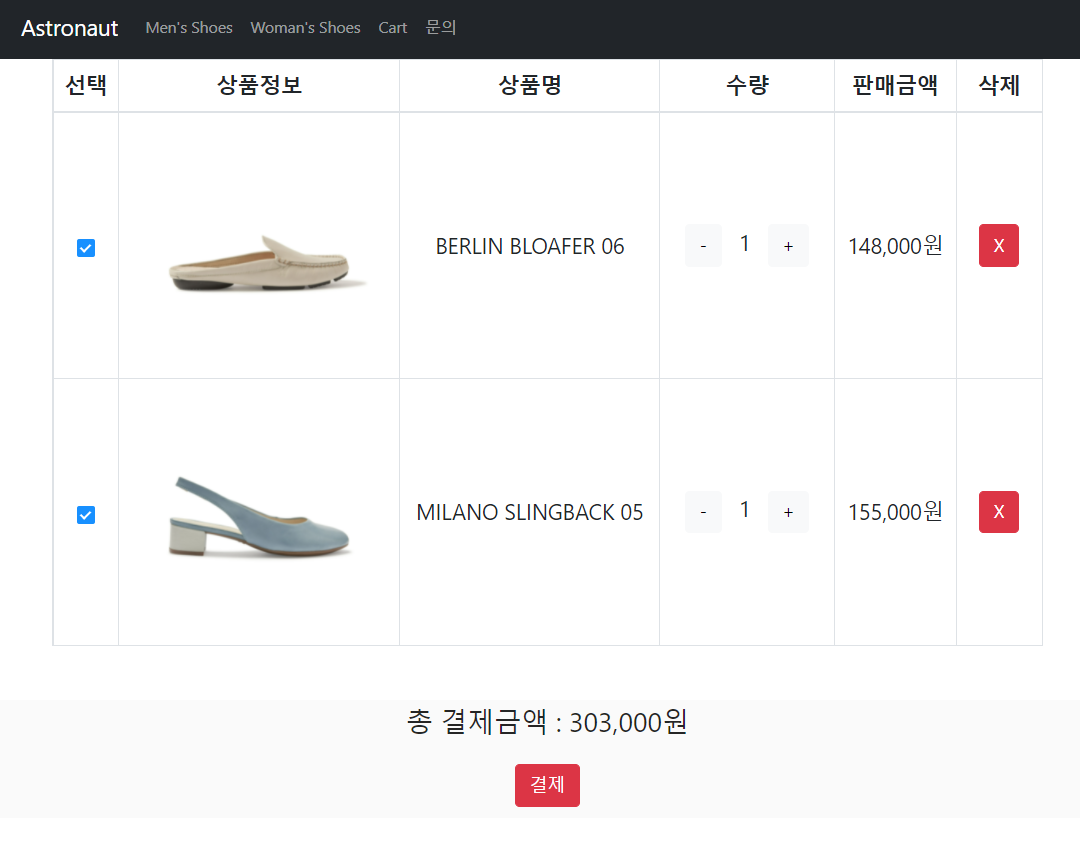
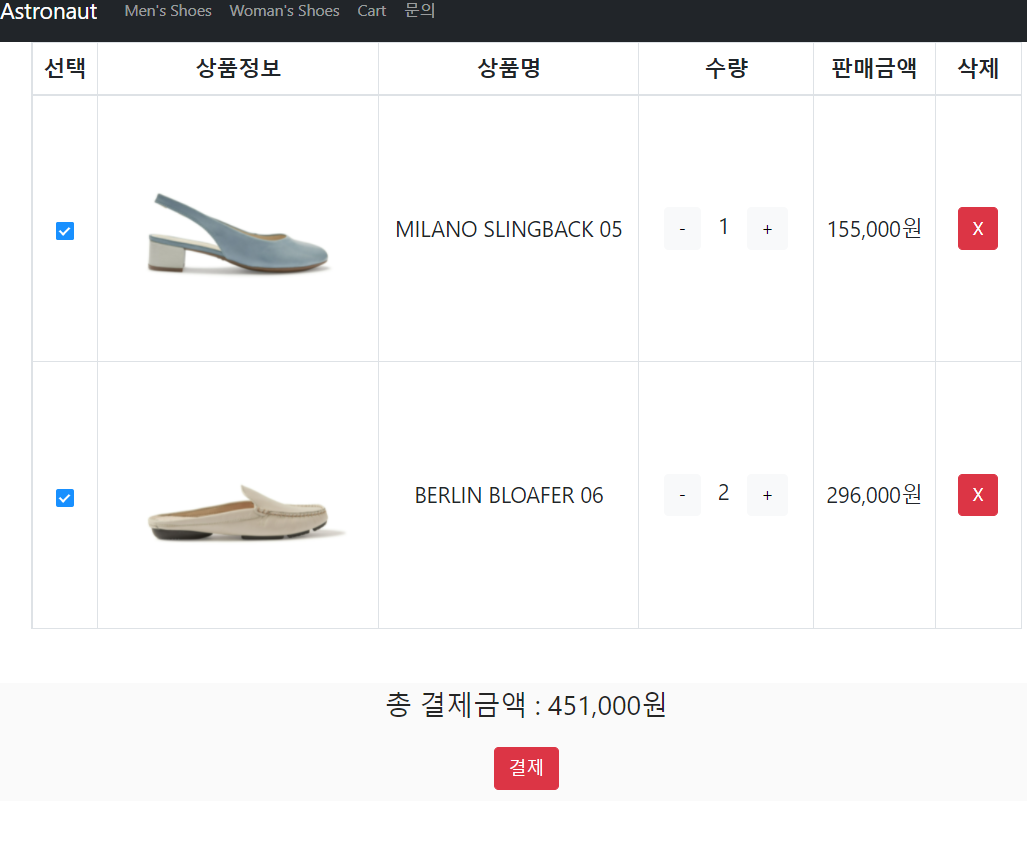
update

diff --git a/README.md b/README.md
@@ -105,7 +105,7 @@
 <div markdown="3">
 <br/>
 
-# 장바구니
+## 장바구니
 
 ### 👉 [전체 code보기](https://github.com/MinsoftK/astronaut-shop/blob/master/shop/src/container/Cart.js)
 
@@ -149,11 +149,11 @@
 <div markdown="4">
 <br/>
 
-# 상품 선택 결제 기능
+## 상품 선택 결제 기능
 
 ### 👉 [전체 code보기](https://github.com/MinsoftK/astronaut-shop/blob/master/shop/src/container/Cart.js)
 
-<center><img src="https://github.com/MinsoftK/astronaut-shop/blob/master/shop/src/img/readme7.png?raw=true" width="800" height="600"/></center>
+<center><img src="https://github.com/MinsoftK/astronaut-shop/blob/master/shop/src/img/readme8.png?raw=true" width="800" height="600"/></center>
 
 - 장바구니에서 상품을 선택하면 상품이 실시간으로 업데이트 된다. 👉 [checkbox 전체 코드 보기](https://github.com/MinsoftK/astronaut-shop/blob/6e469964e4a983b527d0525eae5f622bd2c4e05f/shop/src/container/Cart.js#L30)
 
@@ -199,12 +199,12 @@ const onChange = (e) => {
   </div>
   </details>
 
- <details>
+<details>
 <summary> 4.5. 렌더링 최적화</summary>
 <div markdown="5">
 <br/>
 
-# 렌더링 최적화
+## 렌더링 최적화
 
 ### 👉 [lazy loading code보기](https://github.com/MinsoftK/astronaut-shop/blob/6e469964e4a983b527d0525eae5f622bd2c4e05f/shop/src/App.js#L13)
 
@@ -246,13 +246,13 @@ const onChange = (e) => {
 
 # 5. 주요 트러블슈팅
 
- <details>
+<details>
   <summary> 5.1. json을 통해 Data 받아올 때, CORS 오류</summary>
   <div markdown="1">
 
-<br/>
+    <br/>
 
-# json을 통해 Data 받아올 때, CORS 오류
+## json을 통해 Data 받아올 때, CORS 오류
 
 - 초기 환경에서 DB가 없어서 로컬환경을 이용해 axios 모듈을 통해서 github에 올려진 json파일을 받아오려 했다. 하지만 `Access to XMLHttpRequest at 'https://github.com/MinsoftK/react/blob/main/shop/src/Data/addManShoes.json' from origin 'http://localhost:3000' has been blocked by CORS policy: No 'Access-Control-Allow-Origin' header is present on the requested resource.` 오류가 발생했다. CORS 오류에 대해서 찾아봤는데 왜 CORS 오류가 발생하는지 이해하기 어려웠다.
 
@@ -282,13 +282,14 @@ const fetchData = (i) => {
 
 </div>
 </details>
+
 <details>
   <summary> 5.2. 더보기 버튼 클릭시, 무한 상품 로딩 문제</summary>
   <div markdown="2">
 
 <br/>
 
-# 상품 더보기 버튼 클릭시, 무한 상품 로딩
+## 상품 더보기 버튼 클릭시, 무한 상품 로딩
 
 - 더보기 버튼을 눌렀을 때, 5.1에서처럼 axios모듈을 이용하여 json 데이터를 받아온다. 이때 상품을 불러와도 더보기 버튼이 비활성화되지 않아 무한으로 상품이 추가되는 오류가 있었다. 또한 남자, 여자 카테고리에서 더보기 버튼이 같은 state를 공유하고 있었다. 그래서 남자, 여자 상품 각각의 결과에 대한 버튼 활성화를 관리할 수 있게 state 변수를 2개 만들어줬다.
 
@@ -355,7 +356,7 @@ const fetchData = (i) => {
   <div markdown="3">
 <br/>
 
-# 총 결제금액 표시 문제
+## 총 결제금액 표시 문제
 
 ## 👉 [ 코드 전체 보기](https://github.com/MinsoftK/astronaut-shop/blob/ba961917c6cc688e3da929653dd851c6ff4df634/shop/src/container/Cart.js#L30)
 
@@ -442,7 +443,7 @@ const onChange = (e) => {
 
 <br/>
 
-# 여자 신발 데이터가 바인딩 되야하는데 남자 신발이 바인딩되는 문제
+## 여자 신발 데이터가 바인딩 되야하는데 남자 신발이 바인딩되는 문제
 
 ## 👉 [ 코드 전체 보기](https://github.com/MinsoftK/astronaut-shop/blob/ba961917c6cc688e3da929653dd851c6ff4df634/shop/src/container/ShoesList.js#L20)
 
@@ -530,12 +531,12 @@ return (
 </details>
 
 <details>
-  <summary> 5.5. 장바구니에 해당 상품이 존재하는데 중복으로 상품이 생성되는 문제</summary>
+  <summary>5.5. 장바구니에 해당 상품이 존재하는데 중복으로 상품이 생성되는 문제</summary>**
   <div markdown="5">
 
 <br/>
 
-# 장바구니에 상품이 존재하는데 중복으로 추가되는 문제
+## 장바구니에 상품이 존재하는데 중복으로 추가되는 문제
 
 payload로 넘겨준 데이터와 redux 데이터를 비교해서 같은 상품의 이름이 존재한다면 해당 idx를 found에 저장한다. found가 0보다 큰 경우라면(존재한다면) 개수를 증가시켜준다. 0보다 작을경우에는 그대로 `push`를 써서 copy obj에 추가해준다.
 👉 [ 코드 전체 보기](https://github.com/MinsoftK/astronaut-shop/blob/ba961917c6cc688e3da929653dd851c6ff4df634/shop/src/redux.js#L26)
@@ -561,6 +562,14 @@ else if (action.type === '항목추가') {
 
 <br/>
 
+</div>
+</details>
+
+<details>
+<summary> 5.6. 선택된 상품 수량 변경할때 적용 안되는 오류, 음수 나오는 오류</summary>
+<div markdown="6">
+<br/>
+<center><img src="https://github.com/MinsoftK/astronaut-shop/blob/master/shop/src/img/readme9.png?raw=true" width="600" height="400"/></center>
 </div>
 </details>
 
